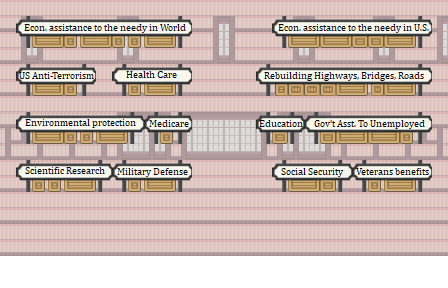
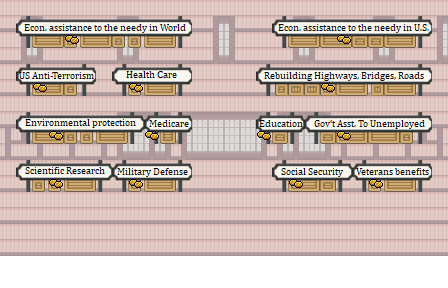
Update Coins onto bins

diff --git a/maps/pico 8 Item tiles 01.tsx b/maps/pico 8 Item tiles 01.tsx
@@ -1,0 +1,4 @@
+<?xml version="1.0" encoding="UTF-8"?>
+<tileset version="1.4" tiledversion="1.4.3" name="pico 8 Item tiles 01" tilewidth="16" tileheight="16" tilecount="36" columns="6">
+ <image source="tilesets/pico 8 Item tiles 01.png" width="96" height="96"/>
+</tileset>

diff --git a/maps/8x8Coins_Spritesheet.tsx b/maps/8x8Coins_Spritesheet.tsx
@@ -1,0 +1,4 @@
+<?xml version="1.0" encoding="UTF-8"?>
+<tileset version="1.4" tiledversion="1.4.3" name="8x8Coins_Spritesheet" tilewidth="16" tileheight="16" tilecount="9" columns="3">
+ <image source="tilesets/8x8Coins_Spritesheet.png" width="48" height="48"/>
+</tileset>

diff --git a/maps/spritesheet_16x16.tsx b/maps/spritesheet_16x16.tsx
@@ -1,0 +1,4 @@
+<?xml version="1.0" encoding="UTF-8"?>
+<tileset version="1.4" tiledversion="1.4.3" name="spritesheet_16x16" tilewidth="16" tileheight="16" tilecount="352" columns="16">
+ <image source="tilesets/spritesheet_16x16.png" width="256" height="352"/>
+</tileset>

diff --git a/maps/Treasure+.tsx b/maps/Treasure+.tsx
@@ -1,0 +1,4 @@
+<?xml version="1.0" encoding="UTF-8"?>
+<tileset version="1.4" tiledversion="1.4.3" name="Treasure+" tilewidth="16" tileheight="16" tilecount="256" columns="16">
+ <image source="tilesets/Treasure+/Treasure+.png" width="256" height="256"/>
+</tileset>

diff --git a/maps/1.tsx b/maps/1.tsx
@@ -1,0 +1,4 @@
+<?xml version="1.0" encoding="UTF-8"?>
+<tileset version="1.4" tiledversion="1.4.3" name="1" tilewidth="16" tileheight="16" tilecount="64" columns="8">
+ <image source="tilesets/coin/1.png" width="128" height="128"/>
+</tileset>
